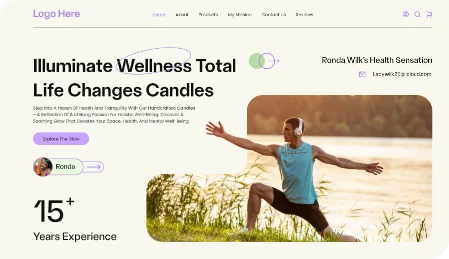
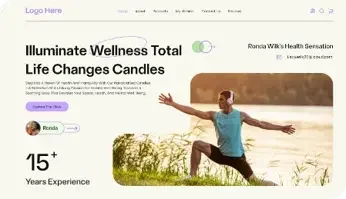
updated

diff --git a/src/screens/Services/EcommerceDevelopment.jsx b/src/screens/Services/EcommerceDevelopment.jsx
@@ -109,25 +109,21 @@ const EcommerceDevelopment = () => {
 
   return (
     <>
-
-       <ReactHelmet
-          title="E-Commerce Website Development Company in New York"
-          description="Build your online store with New York Web Experts a trusted e-commerce website development company in New York delivering conversion-focused solutions."
-          keywords="e-commerce website development services new york, e commerce website development new york, e-commerce website development company new york, e commerce website developer new york, e-commerce website development agency new york"
-          url="https://nywebexperts.com/ecommerce-development"
-        />
-
-
+      <ReactHelmet
+        title="E-Commerce Website Development Company in New York"
+        description="Build your online store with New York Web Experts a trusted e-commerce website development company in New York delivering conversion-focused solutions."
+        keywords="e-commerce website development services new york, e commerce website development new york, e-commerce website development company new york, e commerce website developer new york, e-commerce website development agency new york"
+        url="https://nywebexperts.com/ecommerce-development"
+      />
 
       <DefaultLayout>
-
         <ServicesBanner
           secClass="location-hero-banner wordpress-banner"
           formClass="service-form"
           bgImage={bannerBG}
           title="Get Yourself an E-Commerce Platfrom That Never Stops Selling"
           description="At New York Web Experts, we specialize in e-commerce website development that keeps your store running smoothly. From smart backend management to flawless checkout experiences, our e-commerce website development services in New York ensure your operations stay fast, secure, and scalable. We turn your ideas into online stores that effortlessly sell 24/7."
-           cta1="Speak to a Web Expert"
+          cta1="Speak to a Web Expert"
           cta2="hehe"
         />
 
@@ -155,11 +151,11 @@ const EcommerceDevelopment = () => {
         />
 
         <PixelPerfectSec
-        pixelSec="ecommerce-portfolio-sec"
+          pixelSec="ecommerce-portfolio-sec"
           minihead="Our Portfolio"
           secTitle="Our Most Loved E-Commerce Websites"
           secDescription="Explore our portfolio of e-commerce websites developed in New York, designed to convert traffic into loyal customers."
-          btnText="View Our Portfolio"
+          btnText="Get In Touch"
           btnlink="/contact-us"
           projectsData={webDesignPortfolioData}
           onImageClick={handleImageClick}
@@ -171,13 +167,13 @@ const EcommerceDevelopment = () => {
           title="Your Most Trusted Sales Engine! Build Your Own ECommerce Store"
           description="At New York Web Experts, we create e-commerce websites that move products, build loyalty, and simplify growth for your future plans. Every store we develop has an interactive design, strong strategy, and high performance backend to keep your customers engaged and your operations effortless."
           fantasypoints={[
-          "Smart E-Commerce Stores",
-          "Seamless System Integrations",
-          "Automated Marketing Flow",
-          "Built on Data Insights",
-          "Personalized Shopping Journeys",
-        ]}
-        btnboxClass="d-none"
+            "Smart E-Commerce Stores",
+            "Seamless System Integrations",
+            "Automated Marketing Flow",
+            "Built on Data Insights",
+            "Personalized Shopping Journeys",
+          ]}
+          btnboxClass="d-none"
           cta1=" Talk to Us"
           cta2="hehe"
         />
@@ -191,7 +187,7 @@ const EcommerceDevelopment = () => {
         />
 
         <ServicesBanner
-          secClass="app-florida-herobanner reimage-banner"
+          secClass="app-florida-herobanner reimage-banner ecommerce-easier-sec"
           bgImage={aboutbannerbg}
           title="Easier Reach, Higher Returns You Sell Smoothly With Us"
           description="With New York Web Experts, every click brings value. We make selling online easy through custom e-commerce website development designed for scalability and performance. Whether you’re starting fresh or expanding globally, we handle technical complexities so your brand stays focused on growth, visibility, and customer satisfaction."

diff --git a/src/components/PortfolioSec/index.jsx b/src/components/PortfolioSec/index.jsx
@@ -15,6 +15,12 @@ import portfolio3 from "../../assets/images/services/wordpressdevelopment/portfo
 import portfolio4 from "../../assets/images/services/wordpressdevelopment/portfolio-4.webp"
 import portfolio5 from "../../assets/images/services/wordpressdevelopment/portfolio-5.webp"
 import portfolio6 from "../../assets/images/services/wordpressdevelopment/portfolio-6.webp"
+import portfolio7 from "../../assets/images/services/wordpressdevelopment/portfolio-7.webp"
+import portfolio8 from "../../assets/images/services/wordpressdevelopment/portfolio-8.webp"
+import portfolio9 from "../../assets/images/services/wordpressdevelopment/portfolio-9.webp"
+import portfolio10 from "../../assets/images/services/wordpressdevelopment/portfolio-10.webp"
+import portfolio11 from "../../assets/images/services/wordpressdevelopment/portfolio-11.webp"
+import portfolio12 from "../../assets/images/services/wordpressdevelopment/portfolio-12.webp"
 
 
 import "./index.css";
@@ -29,6 +35,15 @@ const portfolioimgs1 = [
   {
     image: portfolio3,
   },
+  {
+    image: portfolio7,
+  },
+  {
+    image: portfolio8,
+  },
+  {
+    image: portfolio9,
+  },
 ];
 
 
@@ -41,6 +56,15 @@ const portfolioimgs2 = [
   },
   {
     image: portfolio6,
+  },
+  {
+    image: portfolio10,
+  },
+  {
+    image: portfolio11,
+  },
+  {
+    image: portfolio12,
   },
 ];
 

diff --git a/src/App.css b/src/App.css
@@ -2116,7 +2116,9 @@ section.our-process-sec {
 }
 
 .service-portfolio-sec {
+    padding: 70px 0px;
 }
+
 
 .portfolio-head {
   text-align: center;
@@ -2254,12 +2256,17 @@ section.ecommerce-portfolio-sec .pixel-perfect-head p {
   padding: 0px;
 }
 
-.wordpress-benefit-sec {
-}
 
 .benefit-check-points {
   margin: 30px 0px 30px 0px;
 }
+
+
+.ecommerce-easier-sec {
+    padding: 140px 0px 140px 0px;
+        margin: 0px 0px 30px 0px;
+}
+
 
 
 
@@ -2546,6 +2553,10 @@ section.ecommerce-portfolio-sec .pixel-perfect-head p {
     bottom: 35%;
     left: 60%;
   }
+
+  .ecommerce-easier-sec {
+    padding: 90px 0px 30px 0px;
+}
 }
 
 @media (max-width: 767px) {
@@ -2740,6 +2751,7 @@ section.ecommerce-portfolio-sec .pixel-perfect-head p {
 .ecommerce-service-box {
     text-align: center;
 }
+
 
 
 

diff --git a/src/components/DefaultLayout/Header/index.jsx b/src/components/DefaultLayout/Header/index.jsx
@@ -33,7 +33,7 @@ const Header = () => {
         <Link to={"/"} className="navbar-brand">
           <img src={logo} alt="NY Web Experts Logo" />
         </Link>
-        <Navbar.Toggle aria-controls="responsive-navbar-nav" />
+        <Navbar.Toggle aria-controls="responsive-navbar-nav" className="bg-body-tertiary"/>
         <Navbar.Collapse>
           <Nav className="mx-auto">
             <NavLink to={"/"} className="nav-link">

diff --git a/src/components/OurBenenfits/index.jsx b/src/components/OurBenenfits/index.jsx
@@ -48,7 +48,7 @@ const OurBenenfits = ({ minihead, mainhead, mainpara, para2, para3, btntxt, secC
                   </div>
                 ))}
               </div>
-              {btntxt && <Link to="/contact" className="ny-btn">{btntxt}</Link>}
+              {btntxt && <Link to="/contact-us" className="ny-btn">{btntxt}</Link>}
             </div>
           </div>
           <div className="col-lg-6">

diff --git a/src/components/EcommerceServices/index.jsx b/src/components/EcommerceServices/index.jsx
@@ -32,7 +32,7 @@ const EcommerceServices = (props) => {
         <div className="row">
           <div className="col-lg-12">
             <div className="ecommerce-service-btn">
-              <Link href="/contact" className="ny-btn">{props.btntxt}</Link>
+              <Link to="/contact-us" className="ny-btn">{props.btntxt}</Link>
             </div>
           </div>
         </div>
